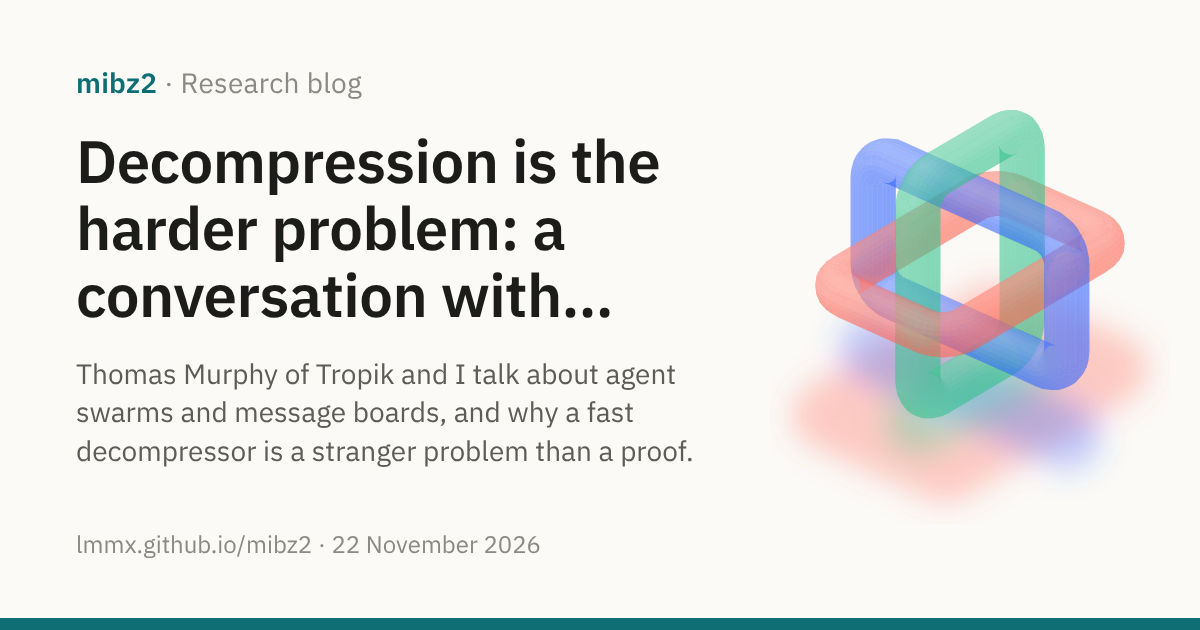
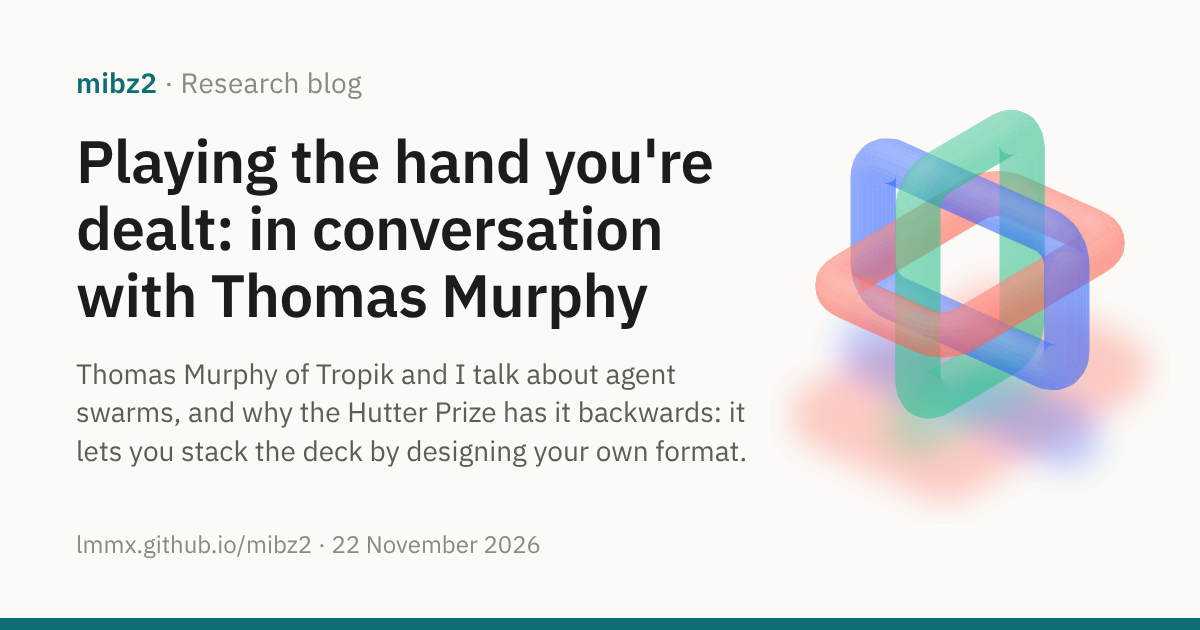
blog(thomas-murphy): retitle "Playing the hand you're dealt"
"Decompression is the harder problem" left "harder than what?" unanswered. The new title and dek,
chosen with Louis, put the contrast the conversation turns on: the Hutter Prize lets you stack the
deck by designing your own format, where a decompressor plays the hand it's dealt. The title,
dek, nav label, llms.txt description, blog index card and social card are updated; the URL stays
the same, so links already shared keep working.

Changed region(s): [[0.0617, 0.2111, 0.6167, 0.5127], [0.0617, 0.6333, 0.6167, 0.754]]

diff --git a/docs/site/blog/index.md b/docs/site/blog/index.md
@@ -8,7 +8,7 @@ What mibz2's experiments are finding, and where they go next. The evidence behin
 post is in the [journals](../background/journals.md) and the pull requests they link.
 
 <div class="post-list">
-<a class="post-card" href="2026-11-22-decompression-is-the-harder-problem.md"><img src="../assets/social/blog-2026-11-22-decompression-is-the-harder-problem.png" alt="" loading="lazy"><span class="post-card-text"><span class="post-card-date">22 November 2026 · Conversation</span><span class="post-card-title">Decompression is the harder problem: a conversation with Thomas Murphy</span><span class="post-card-dek">Thomas Murphy of Tropik and I talk about agent swarms and message boards, and why a fast decompressor is a stranger problem than a proof.</span></span></a>
+<a class="post-card" href="2026-11-22-decompression-is-the-harder-problem.md"><img src="../assets/social/blog-2026-11-22-decompression-is-the-harder-problem.png" alt="" loading="lazy"><span class="post-card-text"><span class="post-card-date">22 November 2026 · Conversation</span><span class="post-card-title">Playing the hand you're dealt: in conversation with Thomas Murphy</span><span class="post-card-dek">Thomas Murphy of Tropik and I talk about agent swarms, and why the Hutter Prize has it backwards: it lets you stack the deck by designing your own format.</span></span></a>
 <a class="post-card" href="2026-11-22-correctness-is-uniform-cost-is-not.md"><img src="../assets/social/blog-2026-11-22-correctness-is-uniform-cost-is-not.png" alt="" loading="lazy"><span class="post-card-text"><span class="post-card-date">22 November 2026 · Research in progress</span><span class="post-card-title">Correctness is uniform, cost is not</span><span class="post-card-dek">Every route in mibz2's bzip2 decoder is exact on every block, but cost varies from block to block and so we hunt for speed in many places.</span></span></a>
 <a class="post-card" href="2026-11-22-two-centuries-of-tools.md"><img src="../assets/social/blog-2026-11-22-two-centuries-of-tools.png" alt="" loading="lazy"><span class="post-card-text"><span class="post-card-date">22 November 2026 · Meta</span><span class="post-card-title">Two centuries of tools: a claimed Riemann proof's toolkit, and our search</span><span class="post-card-dek">A claimed Riemann proof built one new idea on fifty older tools reaching back two centuries, so our research teams now look back as hard as forward.</span></span></a>
 <a class="post-card" href="2026-11-21-a-memory-gain-is-a-gain.md"><img src="../assets/social/blog-2026-11-21-a-memory-gain-is-a-gain.png" alt="" loading="lazy"><span class="post-card-text"><span class="post-card-date">21 November 2026 · Research result</span><span class="post-card-title">Admitting dense blocks to the Open kernel: 29% less peak memory</span><span class="post-card-dek">A bounded admission band takes five dense blocks off a 5.6 MiB-per-worker fallback, and the decoder runs slightly faster in over a quarter less memory.</span><span class="post-card-rel">Shipped in 0.5.11</span></span></a>

diff --git a/docs/site/blog/2026-11-22-decompression-is-the-harder-problem.md b/docs/site/blog/2026-11-22-decompression-is-the-harder-problem.md
@@ -1,7 +1,7 @@
 ---
-title: "Decompression is the harder problem: a conversation with Thomas Murphy"
+title: "Playing the hand you're dealt: in conversation with Thomas Murphy"
 image: assets/social/blog-2026-11-22-decompression-is-the-harder-problem.png
-description: "Thomas Murphy of Tropik and I talk about agent swarms and message boards, and why a fast decompressor is a stranger problem than a proof."
+description: "Thomas Murphy of Tropik and I talk about agent swarms, and why the Hutter Prize has it backwards: it lets you stack the deck by designing your own format."
 ---
 
 <div class="post-hero" markdown>
@@ -11,9 +11,9 @@ description: "Thomas Murphy of Tropik and I talk about agent swarms and message 
 [mibz2 · Research blog](index.md)
 {: .post-kicker }
 
-# Decompression is the harder problem: a conversation with Thomas Murphy
+# Playing the hand you're dealt: in conversation with Thomas Murphy
 
-Thomas Murphy of Tropik and I talk about agent swarms and message boards, and why a fast decompressor is a stranger problem than a proof.
+Thomas Murphy of Tropik and I talk about agent swarms, and why the Hutter Prize has it backwards: it lets you stack the deck by designing your own format.
 {: .post-dek }
 
 22 November 2026 · 15 min read · Conversation
